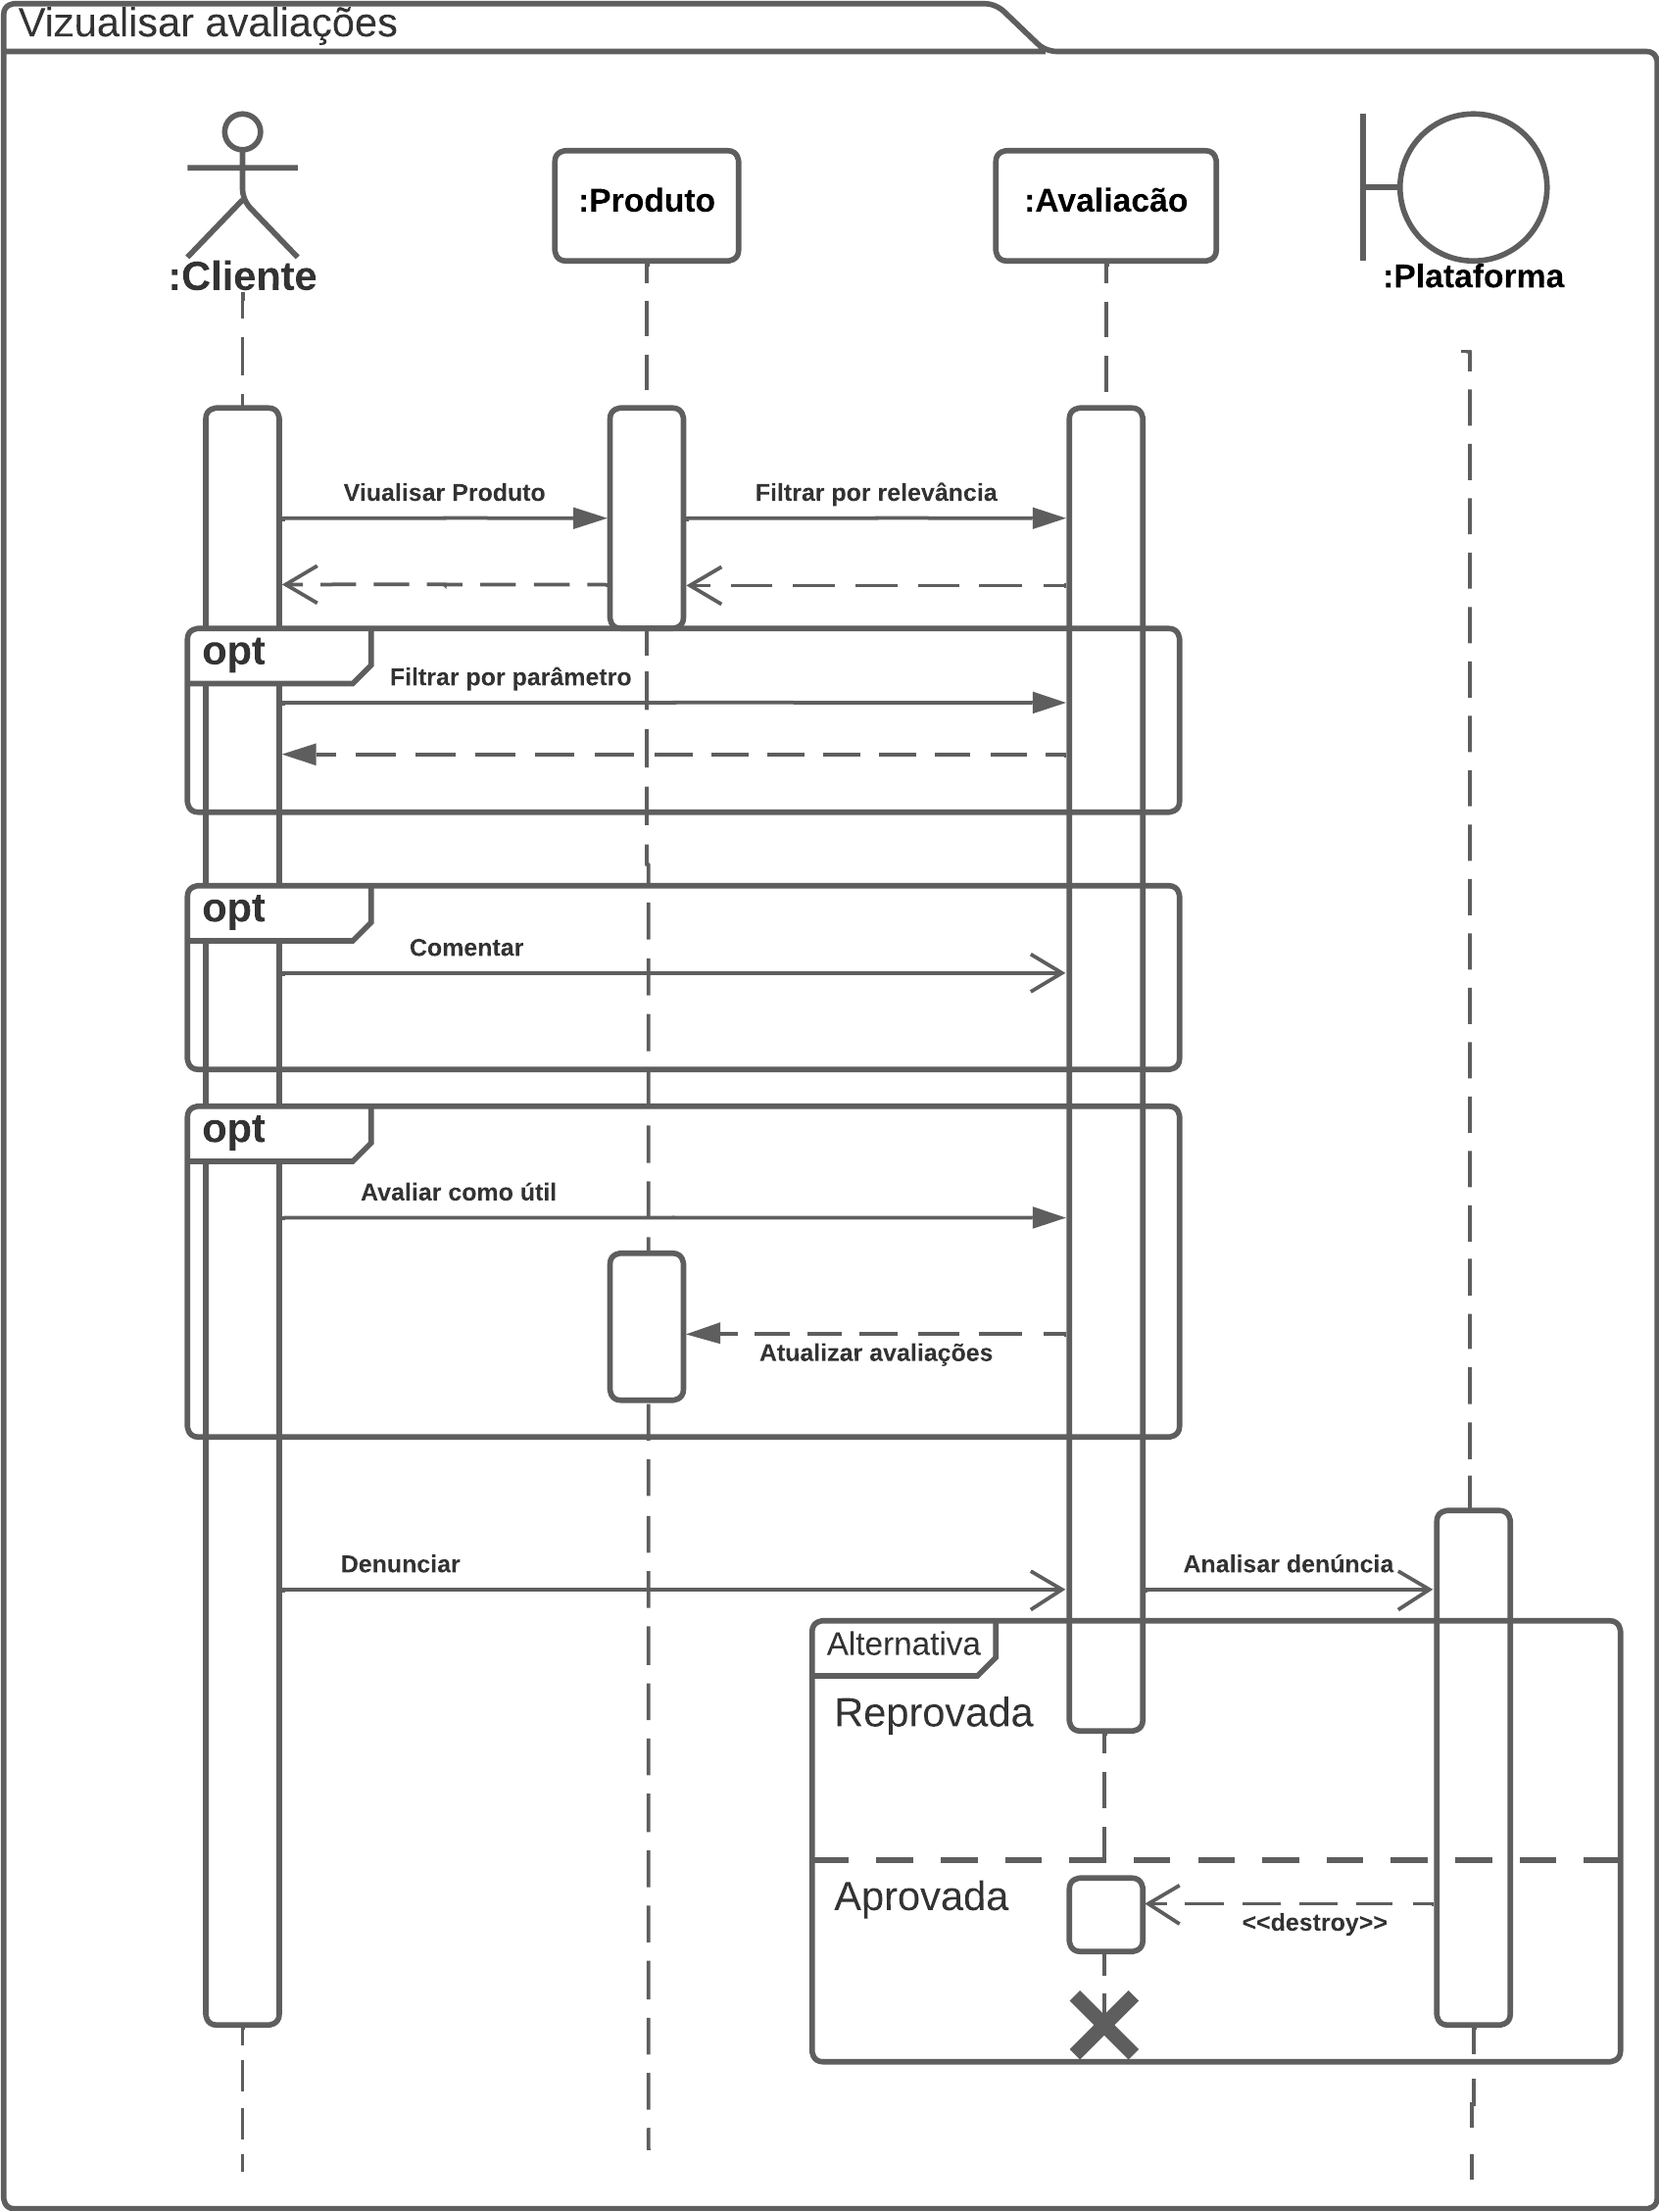
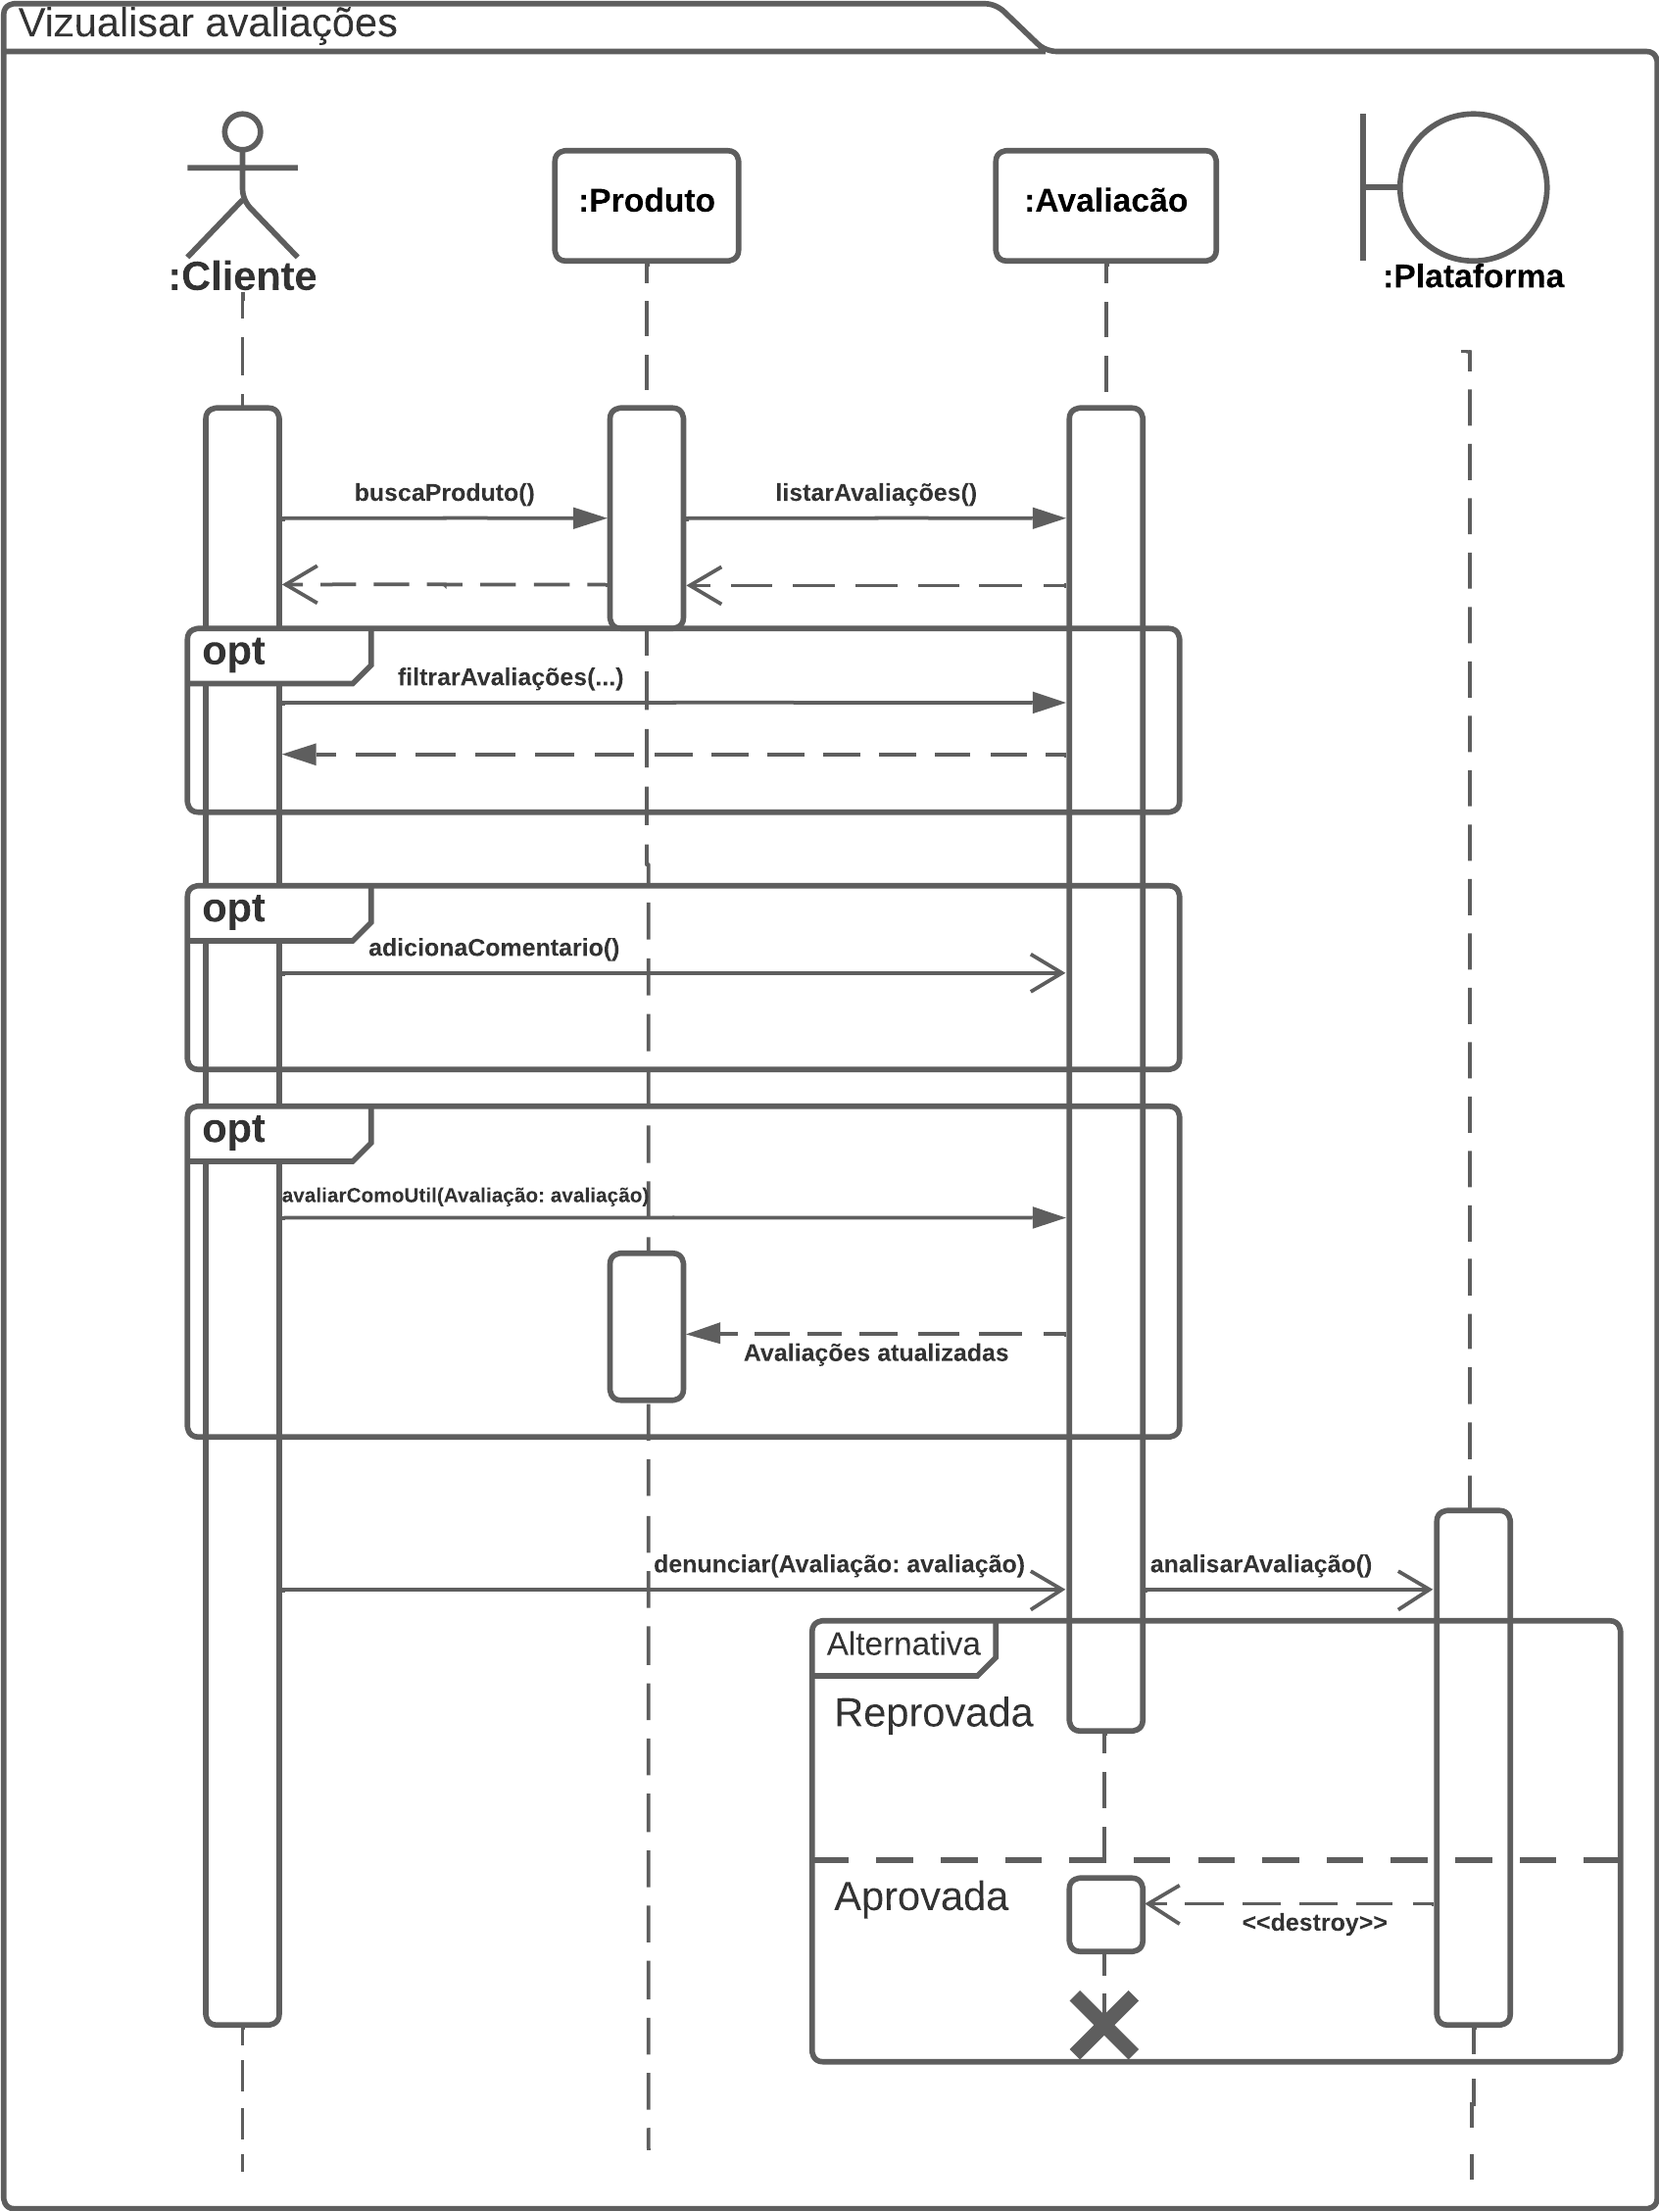
fix: atualização do diagrama de sequencia

diff --git a/docs/Modelagem/2.1.2.1.DiagramaSequencia.md b/docs/Modelagem/2.1.2.1.DiagramaSequencia.md
@@ -40,6 +40,10 @@ Todos os elementos de um diagrama de sequência podem ser observados na legenda 
 Figura 1: Legenda de diagrama de sequência. Autores: Natan Tavares Santana e Clara Ribeiro. Fonte: LucidChart
 </p>
 
+<p align="justify">
+Esses diagramas foram desenvolvidos pelo pareamento Natan Tavares Santana e Clara Ribeiro. Os documentos foram feitos síncronamente por encontros presenciais e validados pelos outros membros do grupo.
+</p>
+
 
 ## 3. Diagramas
 
@@ -59,15 +63,29 @@ Figura 2: Diagrama de Sequência "Visualizar Avaliações". Autores: Natan Tavar
 Figura 3: Diagrama de Sequência "Avaliar Produto". Autores: Natan Tavares Santana e Clara Ribeiro. Fonte: LucidChart
 </p>
 
+## 4. Conclusão
 
-## 4. Referências
+<p align="justify">
+Este documento apresentou os fundamentos de diagramas de sequência, bem como dois diagramas de sequência para a aplicação de avaliação de produtos da Magazine Luiza. Os diagramas apresentados mostram as interações entre objetos da aplicação, permitindo compreender o comportamento do sistema em relação às avaliações.
+</p>
+
+<p align="justify">
+Os diagramas de sequência apresentados neste documento representam um ponto de partida para o desenvolvimento da aplicação de avaliação de produtos da Magazine Luiza. Eles podem ser usados para verificar o comportamento do sistema e identificar problemas de design. Além disso, os diagramas podem ser usados para documentar o comportamento do sistema para desenvolvedores e outros stakeholders.
+</p>
+
+<p align="justify">
+Para futuras iterações do projeto, os diagramas de sequência podem ser atualizados para refletir mudanças no comportamento do sistema. Além disso, novos diagramas de sequência podem ser criados para representar outros fluxos de interação da aplicação.
+</p>
+
+## 5. Referências
 
 > 1. FOWLER, M.; JOÃO TORTELLO. UML essencial : um breve guia para a linguagem-padrão de modelagem de objetos. Porto Alegre: Bookman, 2005. Acesso em: 05 out. 2023.
 > 2. O que é um diagrama de sequência UML? Disponível em: <https://www.lucidchart.com/pages/pt/o-que-e-diagrama-de-sequencia-uml>. Acesso em: 05 out. 2023.
 
 
-## 5. Histórico de Versões
+## 6. Histórico de Versões
 
 | Data       | Versão | Descrição                                     | Autor(a)                                                                                            | Revisor(a)                                               |
 | :--------: | :----: | :-------------------------------------------: | :-------------------------------------------------------------------------------------------------: | :------------------------------------------------------: |
 | 05/10/2023 | 1.0    | Criação do documento de Diagrama de Sequência | [Natan Santana](https://github.com/Neitan2001) e [Clara Marcelino](https://github.com/clara-ribeiro)| [Maurício Machado](https://github.com/MauricioMachadoFF) |
+| 09/10/2023 | 1.1    | Atualização do diagrama e adição da conclusão | [Natan Santana](https://github.com/Neitan2001) e [Clara Marcelino](https://github.com/clara-ribeiro)|  |
